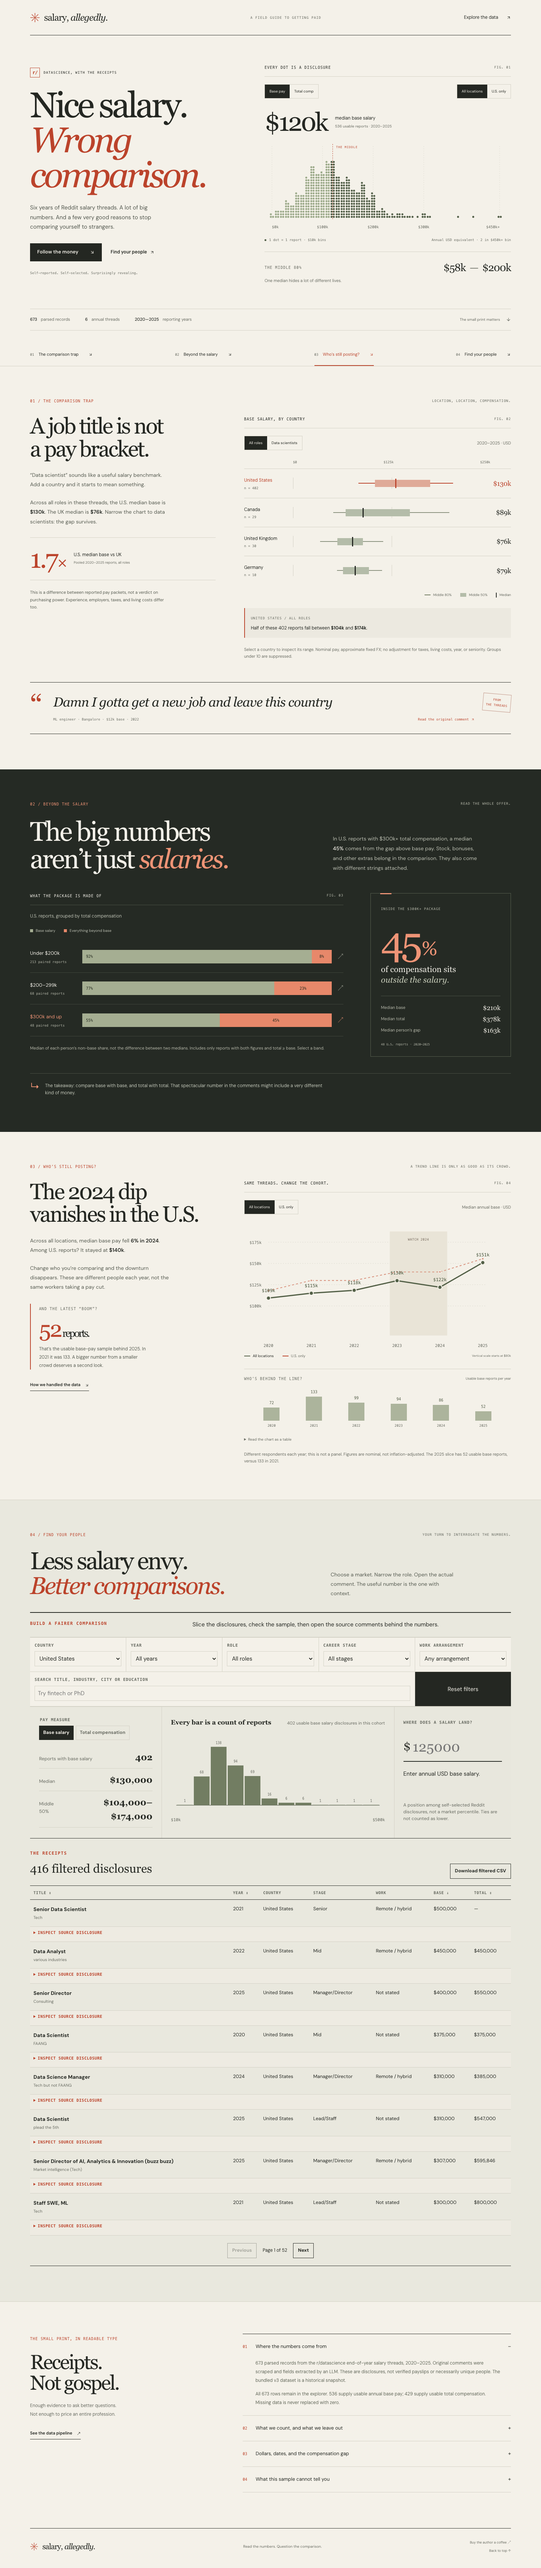
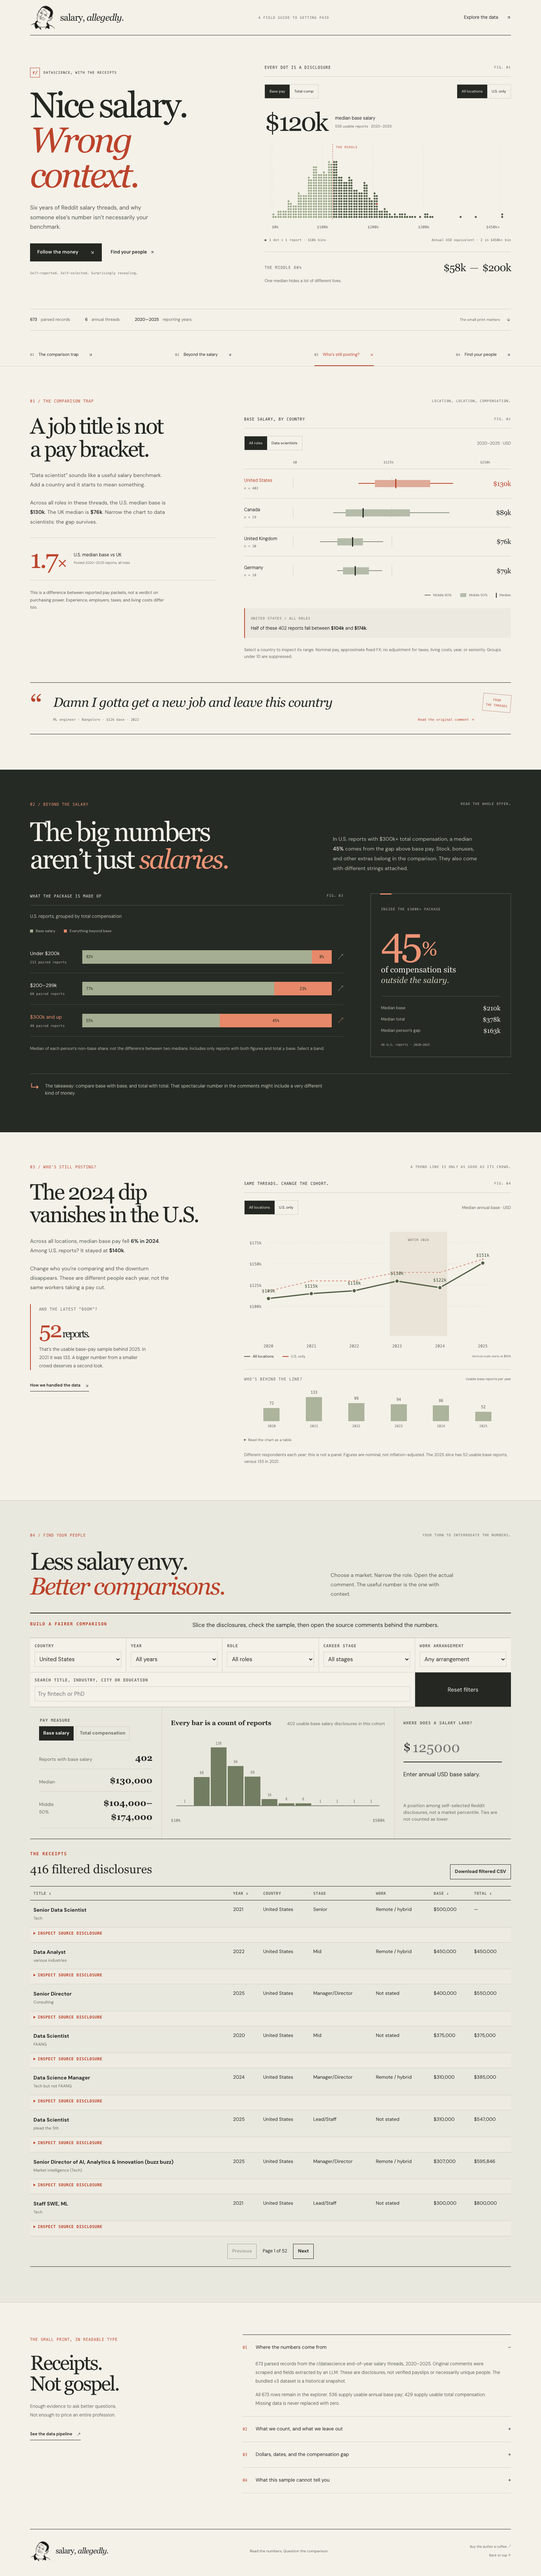
fixd misaligned median on chart

diff --git a/src/components/editorial/StoryCharts.tsx b/src/components/editorial/StoryCharts.tsx
@@ -11,19 +11,37 @@ export function Distribution({ records }: { records: EditorialRecord[] }) {
   const [scope, setScope] = useState('all');
   const cohort = records.filter((r) => scope === 'all' || r.country === 'United States');
   const stats = summarize(cohort, metric);
-  const bins = Array.from({ length: 46 }, () => [] as EditorialRecord[]);
-  cohort.forEach((r) => { if (validPay(r[metric])) bins[Math.min(45, Math.floor(r[metric]! / 10000))].push(r); });
-  const peak = Math.max(...bins.map((bin) => Math.ceil(bin.length / 2)), 1);
+  const binRecords = new Map<number, EditorialRecord[]>();
+  // Make the exact median a bin boundary, including when it falls between $10k ticks.
+  for (const record of cohort) {
+    const value = record[metric];
+    if (!validPay(value)) continue;
+    const start = value >= 450000 ? 450000 : stats.median! + Math.floor((value - stats.median!) / 10000) * 10000;
+    const bin = binRecords.get(start) ?? [];
+    bin.push(record);
+    binRecords.set(start, bin);
+  }
+  const bins = [...binRecords.entries()].sort(([a], [b]) => a - b).map(([start, records]) => {
+    const lower = Math.max(0, start);
+    const upper = Math.min(start + 10000, 450000);
+    return {
+      records,
+      // Narrow edge bins and the overflow bin get one column to avoid collisions.
+      columns: start === 450000 || upper - lower < 10000 ? 1 : 2,
+      center: start === 450000 ? 455000 : (lower + upper) / 2,
+    };
+  });
+  const peak = Math.max(...bins.map((bin) => Math.ceil(bin.records.length / bin.columns)), 1);
   const dotStep = Math.min(7, 168 / peak);
-  const x = (amount: number) => 20 + Math.min(amount, 450000) / 450000 * 610;
-  const overflow = bins[45].length;
+  const x = (amount: number) => 20 + amount / 450000 * 610;
+  const overflow = binRecords.get(450000)?.length ?? 0;
   return <figure className="distribution">
     <div className="figure-heading"><span className="eyebrow">Every dot is a disclosure</span><span className="figure-index">FIG. 01</span></div>
     <div className="distribution-controls"><Segments label="Distribution pay measure" value={metric} options={[{ value: 'usdSalary', label: 'Base pay' }, { value: 'usdTotalComp', label: 'Total comp' }]} onChange={setMetric} /><Segments label="Distribution location" value={scope} options={[{ value: 'all', label: 'All locations' }, { value: 'us', label: 'U.S. only' }]} onChange={setScope} /></div>
     <div className="distribution-stat" aria-live="polite"><strong>{money(stats.median)}</strong><span>median {metric === 'usdSalary' ? 'base salary' : 'total compensation'}<br /><b>{stats.n} usable reports · 2020–2025</b></span></div>
-    <svg className="distribution-svg" viewBox="0 0 660 250" role="img" aria-label={`${stats.n} ${metric === 'usdSalary' ? 'base salaries' : 'total compensation reports'}. Median ${money(stats.median)}. The middle 80 percent spans ${money(stats.p10)} to ${money(stats.p90)}. Last bin contains values at or above $450,000.`}>
+    <svg className="distribution-svg" viewBox="0 0 660 250" role="img" aria-label={`${stats.n} ${metric === 'usdSalary' ? 'base salaries' : 'total compensation reports'}. Median ${money(stats.median)}. The middle 80 percent spans ${money(stats.p10)} to ${money(stats.p90)}. $10,000 bins are aligned to the median, with narrower edge bins. Last bin contains values at or above $450,000.`}>
       {[0, 100000, 200000, 300000, 450000].map((tick) => <g key={tick}><line x1={x(tick)} x2={x(tick)} y1="18" y2="213" className="chart-grid" /><text x={x(tick)} y="238" textAnchor={tick === 0 ? 'start' : tick === 450000 ? 'end' : 'middle'} className="axis-label">{tick === 450000 ? '$450k+' : money(tick)}</text></g>)}
-      {bins.map((bin, i) => bin.map((r, j) => <circle key={r.id} cx={20 + i / 45 * 610 + (j % 2 ? 3 : -3)} cy={207 - Math.floor(j / 2) * dotStep} r={Math.min(2.6, dotStep / 2.3)} className={r[metric]! >= stats.median! ? 'salary-dot upper' : 'salary-dot'}><title>{r.title || 'Title not stated'} · {r.country || 'Location not stated'} · {r.year} · {money(r[metric], true)}</title></circle>))}
+      {bins.map((bin) => bin.records.map((r, j) => <circle key={r.id} cx={x(bin.center) + (bin.columns === 2 ? (j % 2 ? 3 : -3) : 0)} cy={207 - Math.floor(j / bin.columns) * dotStep} r={Math.min(2.6, dotStep / 2.3)} className={r[metric]! >= stats.median! ? 'salary-dot upper' : 'salary-dot'}><title>{r.title || 'Title not stated'} · {r.country || 'Location not stated'} · {r.year} · {money(r[metric], true)}</title></circle>))}
       <line x1={x(stats.median!)} x2={x(stats.median!)} y1="12" y2="215" className="median-line" />
       <text x={x(stats.median!) + 9} y="23" className="median-label">THE MIDDLE</text>
     </svg>

diff --git a/index.html b/index.html
@@ -6,9 +6,9 @@
     <meta name="viewport" content="width=device-width, initial-scale=1.0" />
     <meta name="theme-color" content="#f4f1e9" />
     <title>Salary, allegedly. — The Reddit data science pay story</title>
-    <meta name="description" content="673 records. Six years of Reddit salary threads. Explore how location, compensation, and who chooses to post change the salary comparison." />
-    <meta property="og:title" content="Nice salary. Wrong comparison. — Salary, allegedly." />
-    <meta property="og:description" content="A data story about six years of r/datascience salary threads. Read the story, find your cohort, and open the receipts." />
+    <meta name="description" content="Six years of Reddit salary threads, and why someone else’s number isn’t necessarily your benchmark." />
+    <meta property="og:title" content="Nice salary. Wrong context. — Salary, allegedly." />
+    <meta property="og:description" content="Six years of Reddit salary threads, and why someone else’s number isn’t necessarily your benchmark." />
     <meta property="og:type" content="website" />
     <meta name="twitter:card" content="summary" />
   </head>

diff --git a/src/App.tsx b/src/App.tsx
@@ -45,8 +45,8 @@ export default function App() {
       <section className="hero page-width" aria-labelledby="headline">
         <div className="hero-copy">
           <div className="hero-kicker"><span className="reddit-marker">r/</span><span>DATASCIENCE, WITH THE RECEIPTS</span></div>
-          <h1 id="headline">Nice salary.<br /><em>Wrong</em><br /><em>comparison.</em></h1>
-          <p className="hero-deck">Six years of Reddit salary threads. A lot of big numbers. And a few very good reasons to stop comparing yourself to strangers.</p>
+          <h1 id="headline">Nice salary.<br /><em>Wrong</em><br /><em>context.</em></h1>
+          <p className="hero-deck">Six years of Reddit salary threads, and why someone else’s number isn’t necessarily your benchmark.</p>
           <div className="hero-actions"><a className="button button-primary" href="#geography">Follow the money <LuArrowDownRight aria-hidden="true" /></a><a className="text-link" href="#explore">Find your people <LuArrowUpRight aria-hidden="true" /></a></div>
           <p className="hero-disclaimer">Self-reported. Self-selected. Surprisingly revealing.</p>
         </div>

diff --git a/DESIGN.md b/DESIGN.md
@@ -34,7 +34,7 @@ Desktop max-width 1280px with asymmetric columns. Tablet reduces typography and 
 Every local control shows selected state. Explorer filters update together and reset pagination. Empty cohorts explain how to recover and offer reset. Small samples retain rows but suppress percentile/summary claims below the documented threshold. Missing values stay missing; unknown remote status is distinct. CSV exports the selected records. Static bundled data needs no network loading state; source links require internet.
 
 ## Content voice
-Sharp, precise, human. Premise: “Nice salary. Wrong comparison.” Explain why country, compensation composition, and participation affect comparison. Use “reported”, “in these threads”, and explicit cohorts where they matter. Never imply representativeness, equal job scope, real-wage growth, or a causal premium. Do not describe missing non-salary compensation as zero. Titles should contain an observation or useful tension.
+Sharp, precise, human. Premise: “Nice salary. Wrong context.” Subheading: “Six years of Reddit salary threads, and why someone else’s number isn’t necessarily your benchmark.” Explain why country, compensation composition, and participation affect comparison. Use “reported”, “in these threads”, and explicit cohorts where they matter. Never imply representativeness, equal job scope, real-wage growth, or a causal premium. Do not describe missing non-salary compensation as zero. Titles should contain an observation or useful tension.
 
 ## Implementation constraints
 React 19, TypeScript, Vite; installed dependencies only. Reuse audited utilities where correct; new analytical functions must be pure and tested for missing values, exclusions, paired cohorts, and filtering. Preserve source datasets unchanged. Use fixed legacy FX rates as approximate nominal conversion and publish them. Verify lint, typecheck, build, analytical assertions, browser interactions, desktop/mobile screenshots, and console output. Any unverified source parsing is disclosed.

diff --git a/docs/verification.md b/docs/verification.md
@@ -1,9 +1,10 @@
 # Editorial feature verification
 
-Verified 2026-09-23 against the bundled v3 dataset.
+Verified 2026-09-24 against the bundled v3 dataset.
 
 - `npm run verify`: passes ESLint, all 11 analytical tests, TypeScript, and the production build.
-- `scripts/editorial-browser-check.cjs`: all 31 assertions pass in local Chromium. Covers chart controls, country and role cohorts, small-sample suppression, salary comparisons, filtering and pagination, sorting semantics, keyboard source inspection, Reddit source links, and the contents of the downloaded filtered CSV.
+- `scripts/editorial-browser-check.cjs`: all 35 assertions pass in local Chromium. Covers chart controls, country and role cohorts, small-sample suppression, salary comparisons, filtering and pagination, sorting semantics, keyboard source inspection, Reddit source links, and the contents of the downloaded filtered CSV.
+- Figure 1 regression checks cover all four measure/location combinations: the line stays at the exact median, colours match actual pay, all reported dots remain visible, and dots neither cross the median nor overlap. The check reproduced the original bug before the fix.
 - Empty cohorts offer a working reset; unknown work arrangement is selectable separately from on-site.
 - No page-wide horizontal overflow at 375, 390, 768, 1024, or 1440px. Tables scroll within their own region.
 - Reduced-motion preference disables smooth scrolling. No browser runtime errors observed.

diff --git a/docs/data-findings.md b/docs/data-findings.md
@@ -1,6 +1,6 @@
 # Data findings and editorial audit
 
-This note records the evidence behind **“Nice salary. Wrong comparison.”** Every figure below comes from the same implemented functions used by the interface: `prepareEditorialRecords()`, `summarize()`, `yearlySummary()`, `pairedRecords()`, `compensationSummary()`, and `getRoleType()`.
+This note records the evidence behind **“Nice salary. Wrong context.”** Every figure below comes from the same implemented functions used by the interface: `prepareEditorialRecords()`, `summarize()`, `yearlySummary()`, `pairedRecords()`, `compensationSummary()`, and `getRoleType()`.
 
 ## Reproduction
 

diff --git a/README.md b/README.md
@@ -1,6 +1,6 @@
 # Salary, allegedly.
 
-**Nice salary. Wrong comparison.** An interactive editorial feature about six years of r/datascience salary threads, built with React, TypeScript, and Vite.
+**Nice salary. Wrong context.** An interactive editorial feature about six years of r/datascience salary threads, built with React, TypeScript, and Vite.
 
 The story asks why online salary comparisons can mislead:
 
